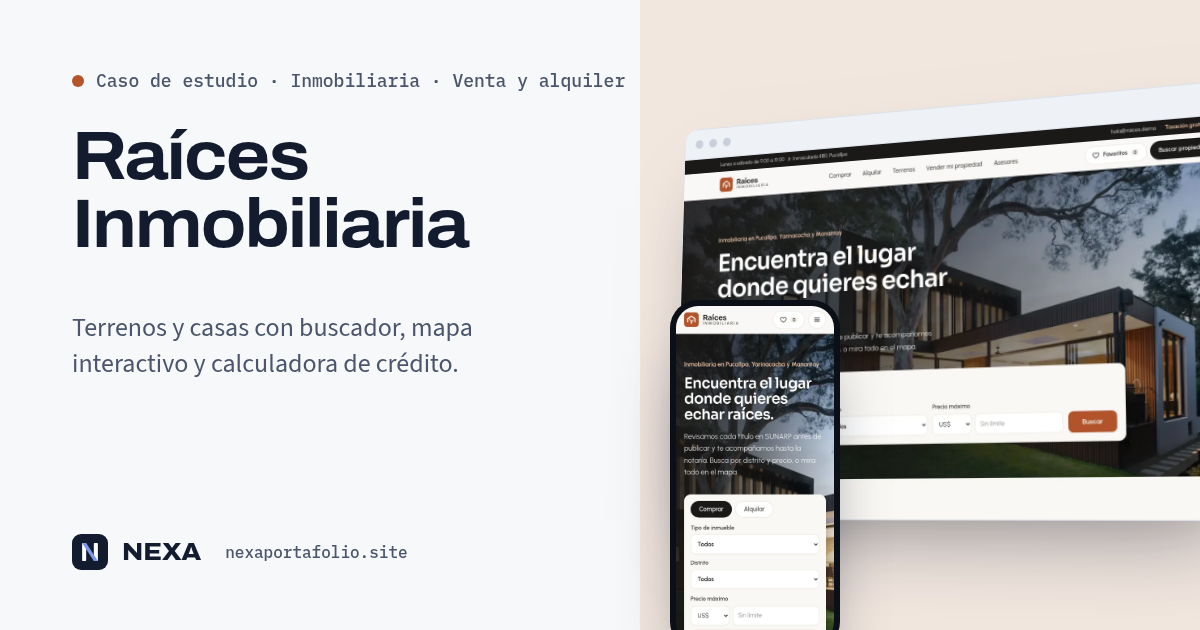
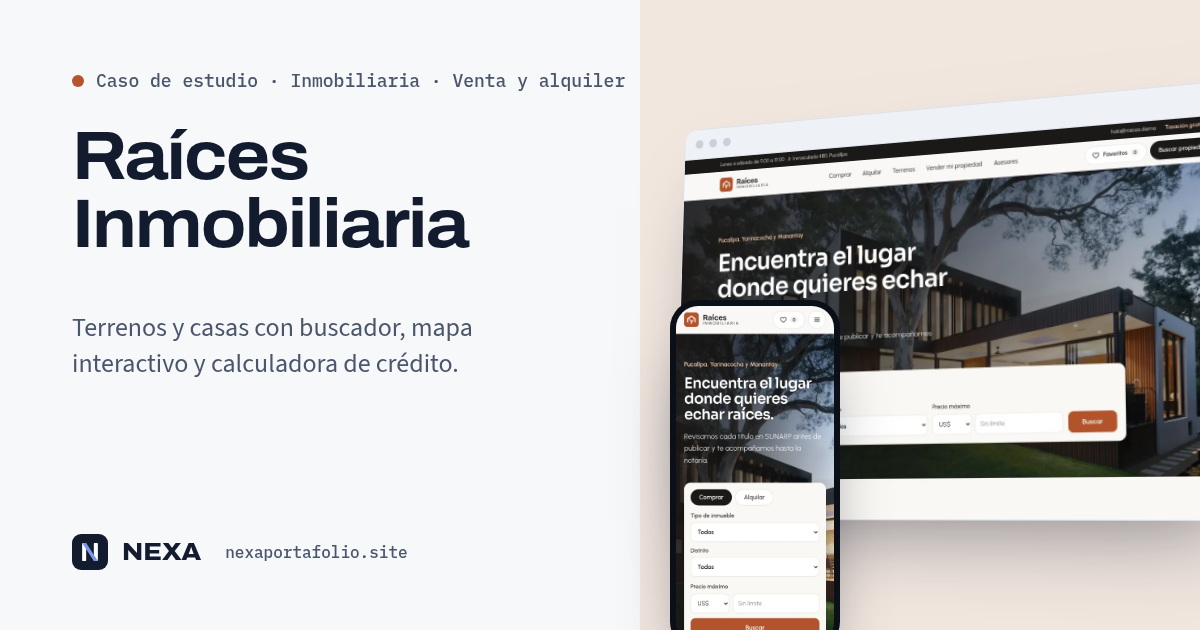
fix: el buscador de la inmobiliaria ya no salta al cargar las fuentes
Con la fuente de respaldo, el antetítulo, el título y el párrafo del hero
ocupaban distinta cantidad de líneas que con Sora y Urbanist, y el buscador se
movía cuando llegaban las fuentes (CLS 0,036 en Lighthouse celular). Ahora el
antetítulo es más corto, el título reserva tres líneas y el párrafo también en
celular: el alto es el mismo con las dos fuentes de 360 a 1440 px.

diff --git a/app/(es)/demos/inmobiliaria/page.tsx b/app/(es)/demos/inmobiliaria/page.tsx
@@ -43,13 +43,12 @@ export default function InmobiliariaInicio() {
         <div className="absolute inset-0 -z-10 bg-gradient-to-r from-[#1c1917]/90 via-[#1c1917]/60 to-[#1c1917]/10" />
 
         <div className="mx-auto max-w-7xl px-5 pb-14 pt-16 md:pb-20 md:pt-24">
-          <p className="text-[15px] font-semibold text-[#f3c7a8]">Inmobiliaria en Pucallpa, Yarinacocha y Manantay</p>
-          <h1 className="mt-4 max-w-2xl text-4xl font-semibold leading-[1.08] tracking-tight text-white sm:text-6xl" style={titulo}>
+          <p className="text-[15px] font-semibold text-[#f3c7a8]">Pucallpa, Yarinacocha y Manantay</p>
+          <h1 className="mt-4 min-h-[3lh] max-w-2xl text-4xl font-semibold leading-[1.08] tracking-tight text-white sm:text-6xl" style={titulo}>
             Encuentra el lugar donde quieres echar raíces.
           </h1>
-          <p className="mt-5 max-w-xl text-lg leading-relaxed text-white/85">
-            Revisamos cada título en SUNARP antes de publicar y te acompañamos hasta la notaría. Busca por distrito y precio, o mira
-            todo en el mapa.
+          <p className="mt-5 max-w-xl text-lg leading-relaxed text-white/85 max-sm:min-h-[3lh]">
+            Revisamos cada título en SUNARP antes de publicar y te acompañamos hasta la notaría.
           </p>
 
           <form action={`${BASE}/propiedades`} method="get" className="mt-10 max-w-5xl rounded-2xl bg-[#faf8f5] p-4 shadow-2xl sm:p-5">
